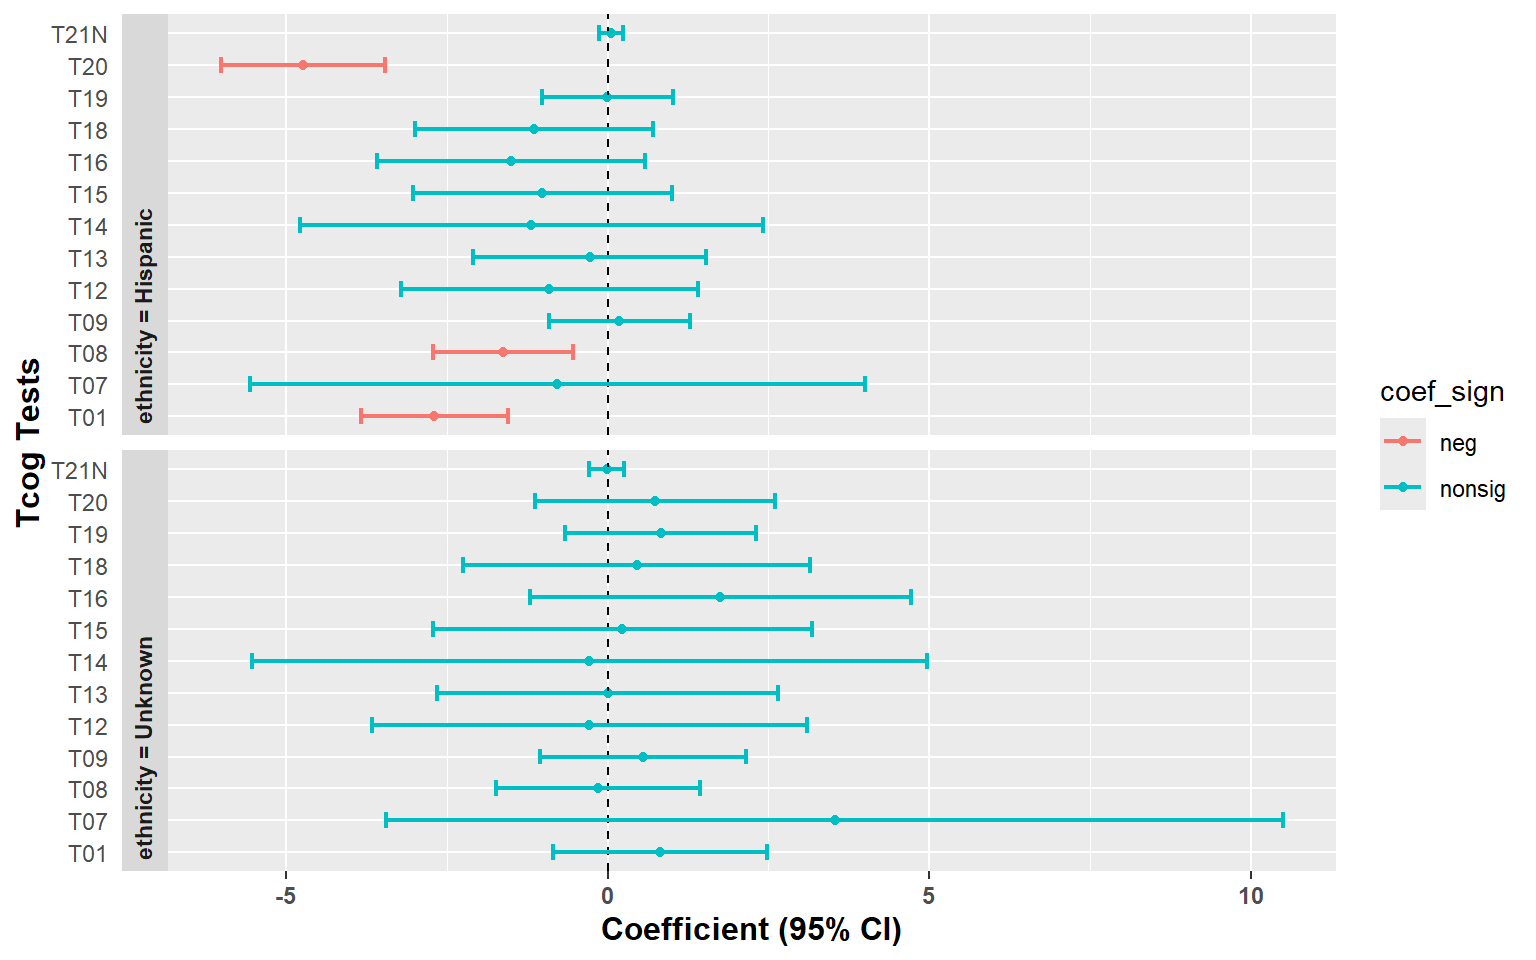
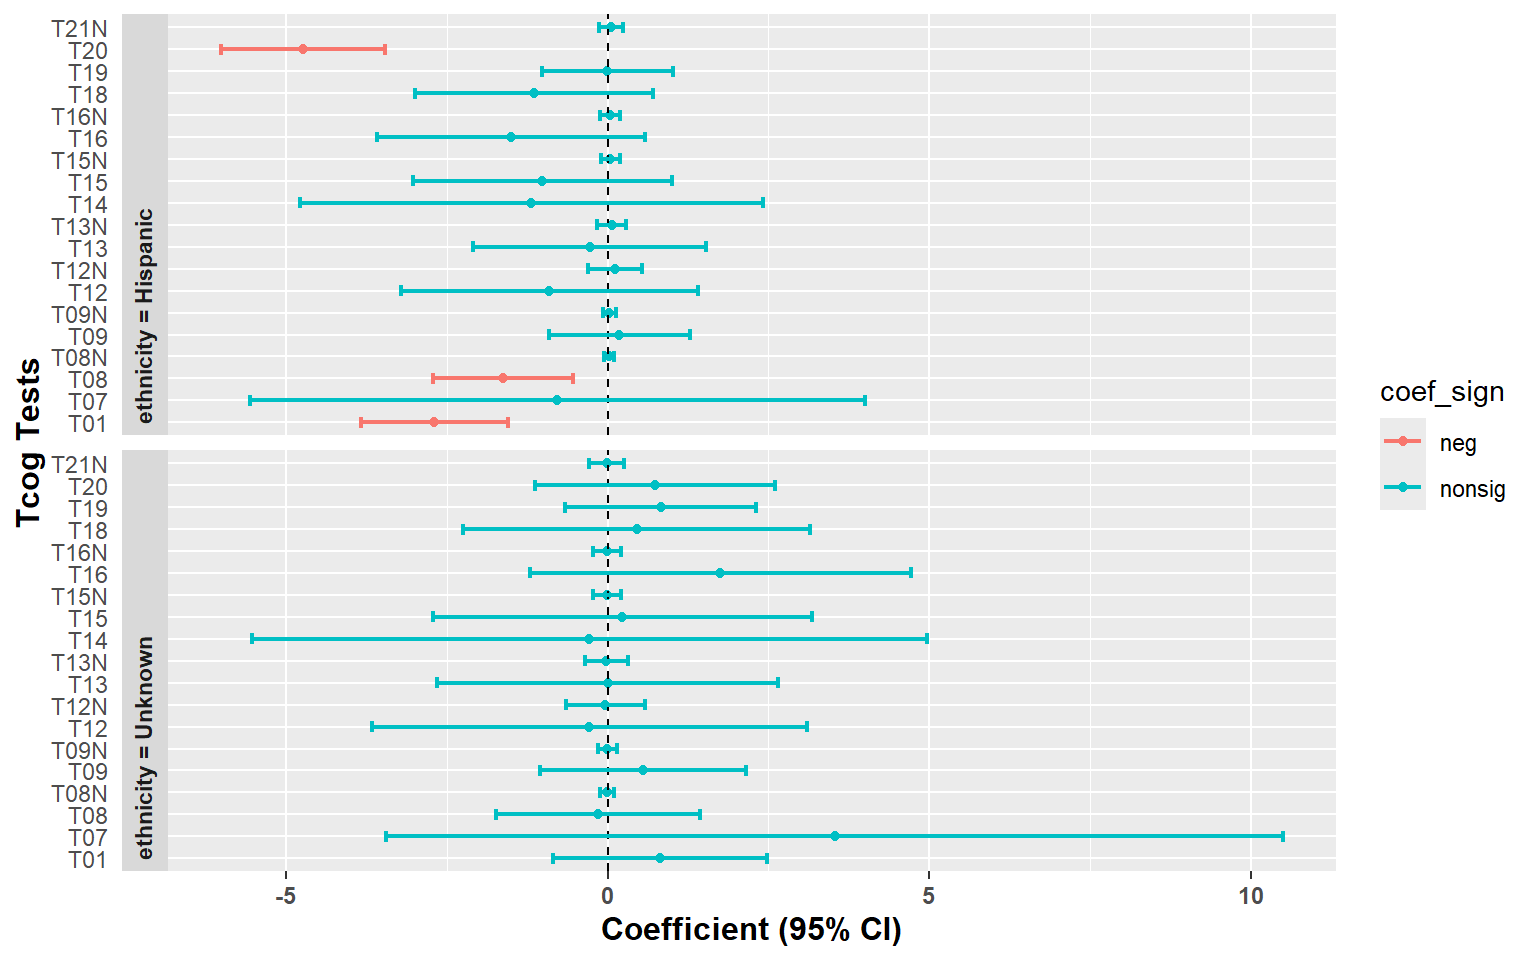
update

diff --git a/res/tcog_base_result.html b/res/tcog_base_result.html
@@ -73,6 +73,87 @@ ul.task-list li input[type="checkbox"] {
 </header>
 
 
+<section id="univariate-regression-of-normalized-tcog-score-against-baseline-sbp" class="level2">
+<h2 class="anchored" data-anchor-id="univariate-regression-of-normalized-tcog-score-against-baseline-sbp">Univariate Regression of Normalized Tcog score against Baseline SBP</h2>
+<div class="cell">
+<div class="cell-output-display">
+<div>
+<figure class="figure">
+<p><img src="tcog_base_result_files/figure-html/outcomewide-sbp-univar-1.png" class="img-fluid figure-img" width="768"></p>
+</figure>
+</div>
+</div>
+<div class="cell-output-display">
+<table class="lightable-classic caption-top table table-sm table-striped small" data-quarto-postprocess="true">
+<thead>
+<tr class="header">
+<th style="text-align: left;" data-quarto-table-cell-role="th">VARIABLE_LABEL</th>
+<th style="text-align: left;" data-quarto-table-cell-role="th">y_lbl</th>
+<th style="text-align: left;" data-quarto-table-cell-role="th">coef_w_95ci</th>
+<th style="text-align: left;" data-quarto-table-cell-role="th">pval_lbl</th>
+</tr>
+</thead>
+<tbody>
+<tr class="odd">
+<td rowspan="7" style="text-align: left; vertical-align: top !important;">baseline SBP</td>
+<td style="text-align: left;">T08N:Number Span Test: Forward Number of Correct Trials</td>
+<td style="text-align: left;">0 (0 - 0.001)</td>
+<td style="text-align: left;">0.377</td>
+</tr>
+<tr class="even">
+<td style="text-align: left;">T09N:Number Span Test: Backward Number of Correct Trials</td>
+<td style="text-align: left;">0 (0 - 0.001)</td>
+<td style="text-align: left;">0.377</td>
+</tr>
+<tr class="odd">
+<td style="text-align: left;">T12N:Category Fluency: Animals</td>
+<td style="text-align: left;">0.001 (-0.002 - 0.005)</td>
+<td style="text-align: left;">0.377</td>
+</tr>
+<tr class="even">
+<td style="text-align: left;">T13N:Category Fluency: Vegetables</td>
+<td style="text-align: left;">0.001 (-0.001 - 0.002)</td>
+<td style="text-align: left;">0.377</td>
+</tr>
+<tr class="odd">
+<td style="text-align: left;">T15N:Verbal Fluency: Phonemic Test Number of Correct F-words</td>
+<td style="text-align: left;">0 (-0.001 - 0.002)</td>
+<td style="text-align: left;">0.377</td>
+</tr>
+<tr class="even">
+<td style="text-align: left;">T16N:Verbal Fluency: Phonemic Test Number of Correct L-words</td>
+<td style="text-align: left;">0.001 (-0.001 - 0.002)</td>
+<td style="text-align: left;">0.377</td>
+</tr>
+<tr class="odd">
+<td style="text-align: left;">T21N:average of the normalized test scors of (T08,T09,T12,T13,T15,T16)</td>
+<td style="text-align: left;">0.001 (-0.001 - 0.002)</td>
+<td style="text-align: left;">0.377</td>
+</tr>
+</tbody><tfoot>
+<tr class="even">
+<td style="text-align: left; padding: 0;"><span style="font-style: italic;">Variable: </span></td>
+<td style="text-align: left;"></td>
+<td style="text-align: left;"></td>
+<td style="text-align: left;"></td>
+</tr>
+<tr class="odd">
+<td style="text-align: left; padding: 0;"><sup></sup> sbp</td>
+<td style="text-align: left;"></td>
+<td style="text-align: left;"></td>
+<td style="text-align: left;"></td>
+</tr>
+</tfoot>
+
+</table>
+
+
+</div>
+</div>
+</section>
+<section id="multiple-regression-of-raw-and-normalized-tcog-scores-against-baseline-characteristics" class="level2">
+<h2 class="anchored" data-anchor-id="multiple-regression-of-raw-and-normalized-tcog-scores-against-baseline-characteristics">Multiple regression of raw and normalized Tcog scores against baseline characteristics</h2>
+<p>Note: for all normalized scores (e.g., T08N, T09N, etc.), Age was excluded from the predictors/covariates</p>
 <div class="cell">
 <div class="cell-output-display">
 <div>
@@ -355,9 +436,39 @@ ul.task-list li input[type="checkbox"] {
 <td style="text-align: left;">&lt;0.001</td>
 </tr>
 <tr class="odd">
-<td rowspan="2" style="text-align: left; vertical-align: top !important;">race = Black</td>
+<td rowspan="8" style="text-align: left; vertical-align: top !important;">race = Black</td>
 <td style="text-align: left;">T20:Verbal Naming Test Total Correct without a Cue</td>
 <td style="text-align: left;">-3.864 (-4.437 - -3.291)</td>
+<td style="text-align: left;">&lt;0.001</td>
+</tr>
+<tr class="even">
+<td style="text-align: left;">T08N:Number Span Test: Forward Number of Correct Trials</td>
+<td style="text-align: left;">0.058 (0.026 - 0.09)</td>
+<td style="text-align: left;">&lt;0.001</td>
+</tr>
+<tr class="odd">
+<td style="text-align: left;">T09N:Number Span Test: Backward Number of Correct Trials</td>
+<td style="text-align: left;">0.08 (0.035 - 0.125)</td>
+<td style="text-align: left;">&lt;0.001</td>
+</tr>
+<tr class="even">
+<td style="text-align: left;">T12N:Category Fluency: Animals</td>
+<td style="text-align: left;">0.334 (0.148 - 0.52)</td>
+<td style="text-align: left;">&lt;0.001</td>
+</tr>
+<tr class="odd">
+<td style="text-align: left;">T13N:Category Fluency: Vegetables</td>
+<td style="text-align: left;">0.185 (0.082 - 0.288)</td>
+<td style="text-align: left;">&lt;0.001</td>
+</tr>
+<tr class="even">
+<td style="text-align: left;">T15N:Verbal Fluency: Phonemic Test Number of Correct F-words</td>
+<td style="text-align: left;">0.118 (0.052 - 0.184)</td>
+<td style="text-align: left;">&lt;0.001</td>
+</tr>
+<tr class="odd">
+<td style="text-align: left;">T16N:Verbal Fluency: Phonemic Test Number of Correct L-words</td>
+<td style="text-align: left;">0.122 (0.054 - 0.191)</td>
 <td style="text-align: left;">&lt;0.001</td>
 </tr>
 <tr class="even">
@@ -495,6 +606,7 @@ ul.task-list li input[type="checkbox"] {
 
 </div>
 </div>
+</section>
 
 </main>
 <!-- /main column -->
